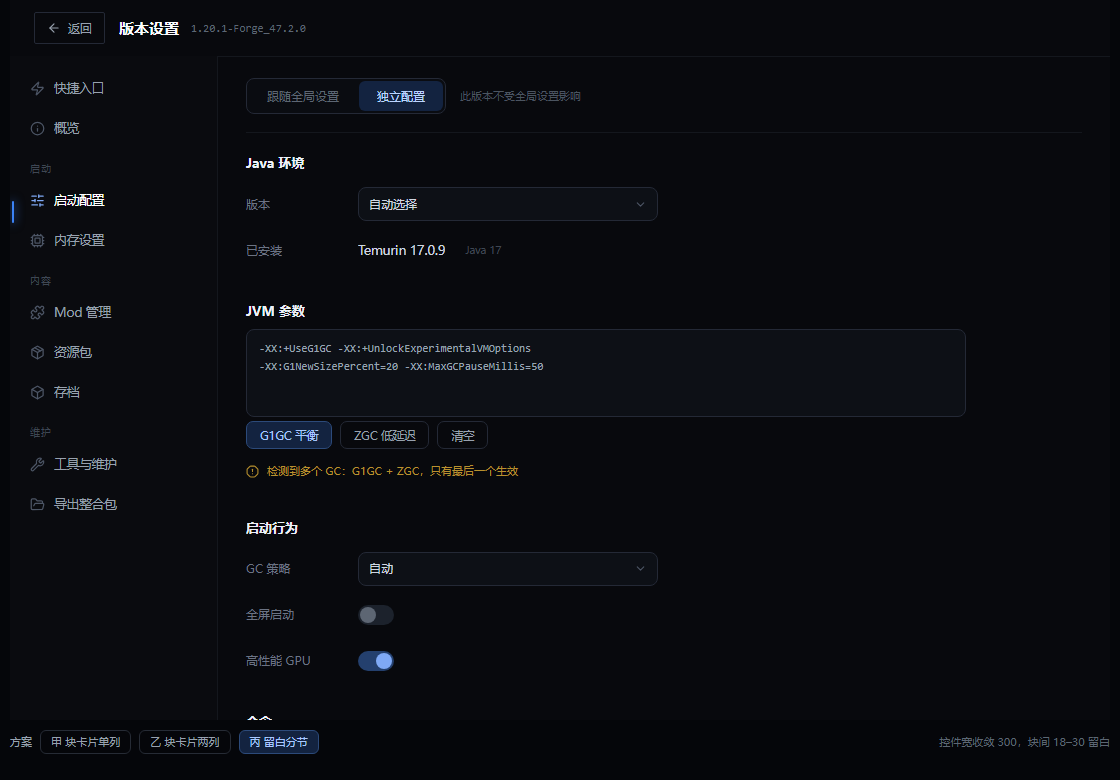
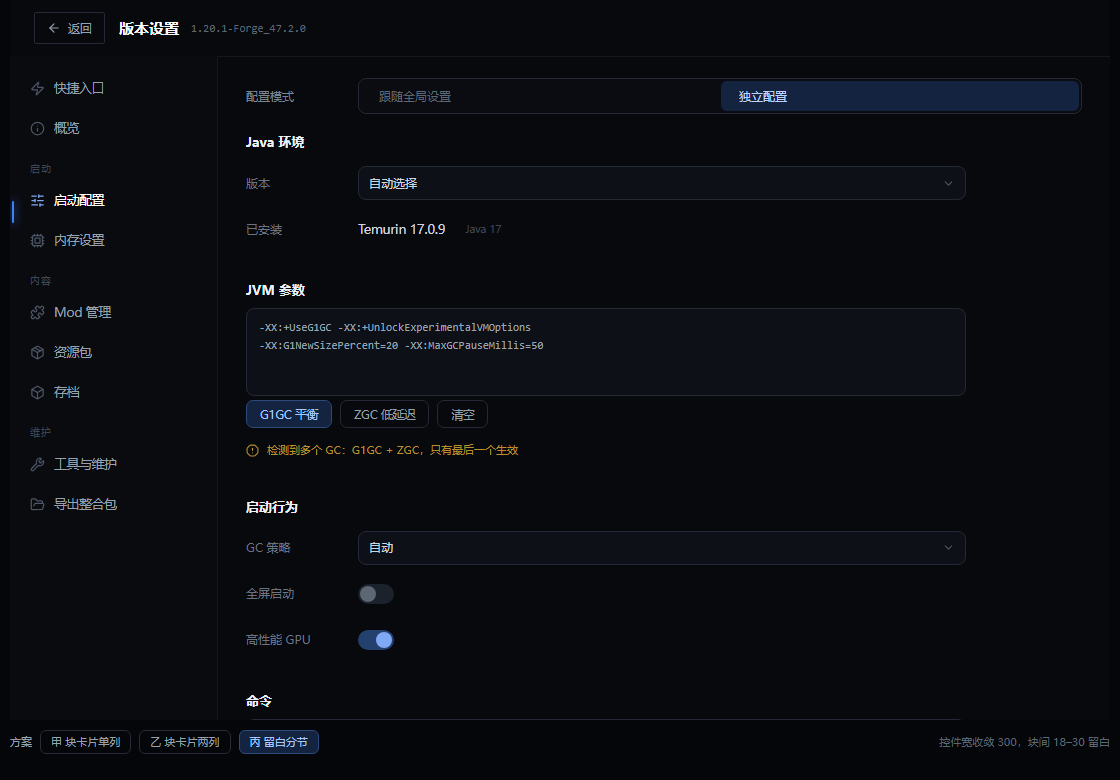
design(vs): 控件填满行宽、配置模式并入紧凑行、删除冗余说明

diff --git a/design/vs-page/launch.html b/design/vs-page/launch.html
@@ -36,10 +36,12 @@ button{font:inherit;color:inherit;background:none;border:0;cursor:pointer;text-a
 
 /* 配置模式条：独立成块，与下方分隔 */
 .modebar{display:flex;align-items:center;gap:14px;padding-bottom:18px;margin-bottom:22px;border-bottom:1px solid var(--line)}
-.seg{display:inline-flex;padding:2px;border:1px solid var(--line2);border-radius:8px;background:#0a0c11;gap:2px}
-.seg button{height:30px;padding:0 18px;border-radius:6px;font-size:12px;color:var(--fg3);transition:.12s var(--ease)}
+.seg{display:flex;flex:1;padding:2px;border:1px solid var(--line2);border-radius:8px;background:#0a0c11;gap:2px}
+.seg button{flex:1;height:30px;padding:0 18px;border-radius:6px;font-size:12px;color:var(--fg3);transition:.12s var(--ease)}
 .seg button.on{background:#132340;color:#bcd4ff}
-.mnote{font-size:11px;color:#4b5460}
+.modeRow{display:flex;align-items:center;gap:16px;margin-bottom:20px;max-width:720px}
+.mk{font-size:12px;color:#7b8494;width:96px;flex:0 0 96px}
+.pb .modeRow,.pc .modeRow{max-width:none}
 
 /* 块：一张卡 = 一个功能域 */
 .card{border:1px solid var(--line2);border-radius:12px;background:var(--card);padding:4px 20px 10px;margin-bottom:20px;max-width:720px}
@@ -53,11 +55,11 @@ button{font:inherit;color:inherit;background:none;border:0;cursor:pointer;text-a
 .row .k{font-size:12px;color:#7b8494;width:96px;flex:0 0 96px}
 .row .val{font-size:12.5px;color:#cfd6e1}
 .row .note{font-size:10.5px;color:#3f4753;margin-left:4px}
-.sel{width:300px;max-width:100%;height:34px;padding:0 10px;border:1px solid var(--line2);border-radius:8px;background:var(--input);
+.sel{flex:1;min-width:0;height:34px;padding:0 10px;border:1px solid var(--line2);border-radius:8px;background:var(--input);
   display:flex;align-items:center;justify-content:space-between;gap:8px;font-size:12px;color:#cfd6e1;transition:.12s var(--ease)}
 .sel:hover{border-color:#39414f}
 .sel .i{width:13px;height:13px;color:#4d5666}
-.inp{width:300px;max-width:100%;height:34px;padding:0 10px;border:1px solid var(--line2);border-radius:8px;background:var(--input);
+.inp{flex:1;min-width:0;height:34px;padding:0 10px;border:1px solid var(--line2);border-radius:8px;background:var(--input);
   display:flex;align-items:center;font-size:12px;color:#cfd6e1;overflow:hidden;white-space:nowrap;text-overflow:ellipsis}
 .inp.ph{color:#39414f}
 .sw{width:36px;height:20px;border-radius:10px;background:#1c222c;position:relative;flex:0 0 36px;transition:.12s var(--ease)}
@@ -136,10 +138,7 @@ button{font:inherit;color:inherit;background:none;border:0;cursor:pointer;text-a
 
       <!-- 甲：单列块卡片 -->
       <div class="pn pa on"><div class="scroll">
-        <div class="modebar">
-  <div class="seg"><button>跟随全局设置</button><button class="on">独立配置</button></div>
-  <span class="mnote">此版本不受全局设置影响</span>
-</div>
+        <div class="modeRow"><span class="mk">配置模式</span><div class="seg"><button>跟随全局设置</button><button class="on">独立配置</button></div></div>
         <div class="card">
   <div class="ch">Java 环境</div>
   <div class="row"><span class="k">版本</span><button class="sel"><span>自动选择</span><svg class="i" viewBox="0 0 24 24" fill="none" stroke="currentColor" stroke-width="2" stroke-linecap="round" stroke-linejoin="round"><path d="m6 9 6 6 6-6" /></svg></button></div>
@@ -160,7 +159,7 @@ button{font:inherit;color:inherit;background:none;border:0;cursor:pointer;text-a
   <div class="row"><span class="k">GC 策略</span><button class="sel"><span>自动</span><svg class="i" viewBox="0 0 24 24" fill="none" stroke="currentColor" stroke-width="2" stroke-linecap="round" stroke-linejoin="round"><path d="m6 9 6 6 6-6" /></svg></button></div>
   <div class="row"><span class="k">全屏启动</span><span class="sw"><i></i></span></div>
   <div class="row"><span class="k">高性能 GPU</span><span class="sw on"><i></i></span></div>
-  <div class="row"><span class="k">自动进服</span><div class="inp ph">未设置</div><span class="note"></span></div>
+  <div class="row"><span class="k">自动进服</span><div class="inp ph">未设置</div></div>
   <div class="row"><span class="k">窗口标题</span><div class="inp ph">未设置</div></div>
 </div>
         <div class="card">
@@ -176,10 +175,7 @@ button{font:inherit;color:inherit;background:none;border:0;cursor:pointer;text-a
 
       <!-- 乙：两列块卡片 -->
       <div class="pn pb"><div class="scroll">
-        <div class="modebar">
-  <div class="seg"><button>跟随全局设置</button><button class="on">独立配置</button></div>
-  <span class="mnote">此版本不受全局设置影响</span>
-</div>
+        <div class="modeRow"><span class="mk">配置模式</span><div class="seg"><button>跟随全局设置</button><button class="on">独立配置</button></div></div>
         <div class="cols">
           <div><div class="card">
   <div class="ch">Java 环境</div>
@@ -215,10 +211,7 @@ button{font:inherit;color:inherit;background:none;border:0;cursor:pointer;text-a
 
       <!-- 丙：无边框留白分节 -->
       <div class="pn pc"><div class="scroll">
-        <div class="modebar">
-  <div class="seg"><button>跟随全局设置</button><button class="on">独立配置</button></div>
-  <span class="mnote">此版本不受全局设置影响</span>
-</div>
+        <div class="modeRow"><span class="mk">配置模式</span><div class="seg"><button>跟随全局设置</button><button class="on">独立配置</button></div></div>
         <div class="sec">
           <div class="sh">Java 环境</div>
           <div class="row"><span class="k">版本</span><button class="sel"><span>自动选择</span><svg class="i" viewBox="0 0 24 24" fill="none" stroke="currentColor" stroke-width="2" stroke-linecap="round" stroke-linejoin="round"><path d="m6 9 6 6 6-6" /></svg></button></div>
